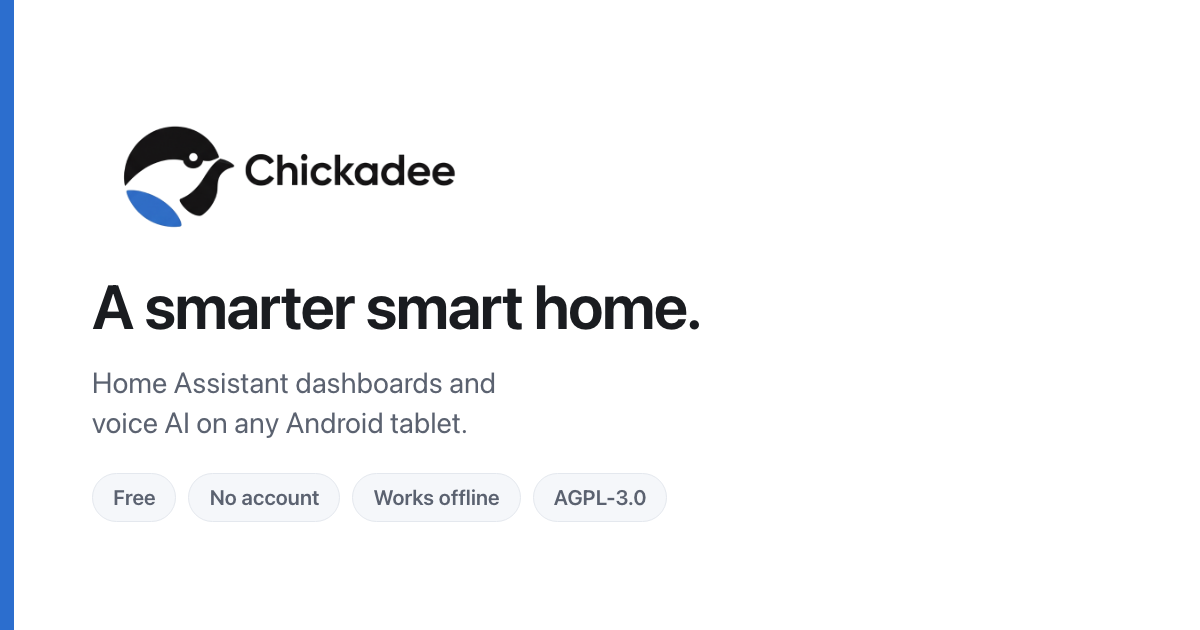
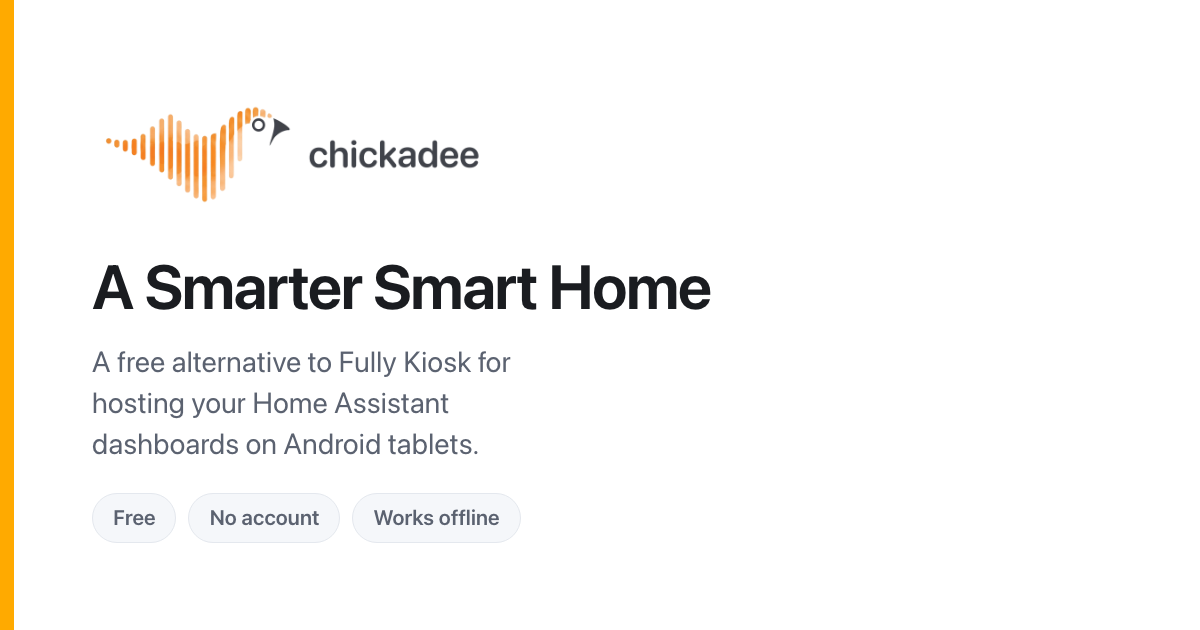
Swap in John's orange brand art; build the missing dark-surface wordmark
Closes the orange-site/blue-bird mismatch flagged in s16. All four assets come
from .reference/brand-assets/chickadee (cb36e15bb):

- chickadee-logo.png    <- wordmark-900x300 (orange bird, #40434a ink)
- favicon.png           <- icon-256, RGBA with transparent corners verified
- og.png                <- re-rendered; it bakes in the mark, so it could not
                           just be copied. Rule recoloured blue -> #ffaa00,
                           headline synced to the live page, AGPL badge dropped
                           to match the copy John trimmed.
- chickadee-logo-dark.png -> BUILT, see below

No dark-surface wordmark existed. Rather than use the white bird master and
lose the brand colour, this inverts ONLY the neutral ink and leaves the orange
exactly as authored. That flips the charcoal text light (9.55:1 on the dark
background, against 9.91:1 for the charcoal on white — the two schemes now
match) and flips the eye's white centre dark, which is the negative-space
behaviour the mark is designed around. A CSS filter cannot do this: it would
flatten the bird and destroy the head.

Palette untouched per John's ruling — the shared values stand and the art's
#F48F21 rides on top.

⚠ Thread A wants a dark-surface wordmark too (its overlay currently white-
plates the near-black ink). wordmark-dark-900x300 and -450x150 are built and
announced in status; they should live in brand-assets so one artifact serves
both grounds rather than each side rolling its own.

diff --git a/assets/site.css b/assets/site.css
@@ -59,11 +59,11 @@ main.wide .lede, main.wide .tagline, main.wide .description { margin-left: auto;
 a { color: var(--accent); text-decoration: none; }
 a:hover { text-decoration: underline; }
 
-/* The wordmark ships in two versions rather than being filtered: a
-   brightness(0) invert(1) flattens the mark to a featureless white silhouette.
-   ⚠ The current art is the BLUE-winged mark and is awaiting John's orange
-   redesign, so the mark and the palette do not match yet. Asset swap only —
-   no CSS change needed when the new art lands. */
+/* The wordmark ships in two versions rather than being filtered: a CSS filter
+   would flatten the mark and destroy the bird's negative-space head. The dark
+   variant inverts ONLY the neutral ink — the brand orange is left exactly as
+   authored — so the charcoal text goes light and the eye's white centre goes
+   dark, which is the negative-space behaviour the mark is designed around. */
 .logo, .home img, .home picture { display: block; height: auto; }
 
 /* ---- landing ---- */
